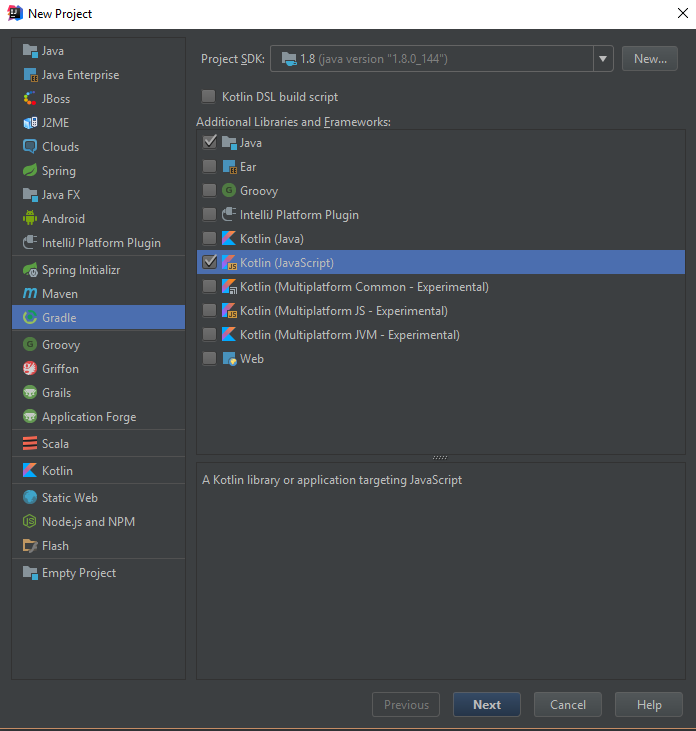
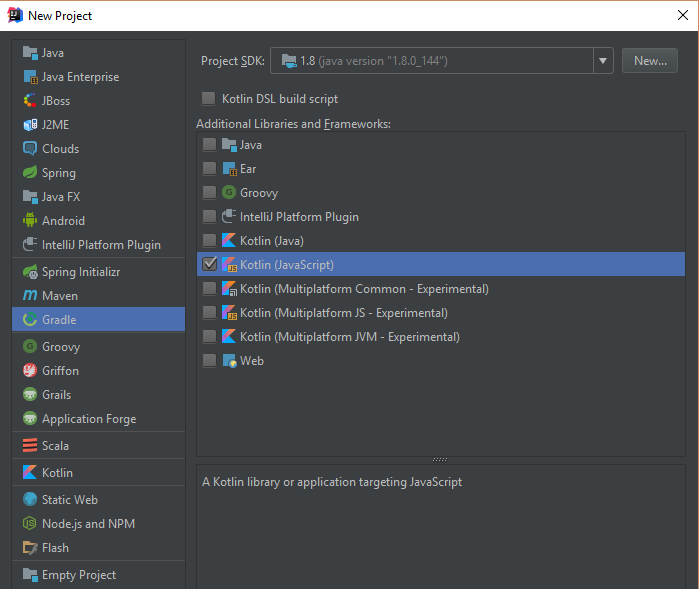
Passi avanti: sezione 1 e 2 terminate. Alla 3 mancano esempi e kotlinhtmlx

Changed region(s): [[0.0, 0.0, 1.0, 1.0], [0.2716, 0.7946, 0.6638, 0.8251]]

diff --git a/presentazione.tex b/presentazione.tex
@@ -169,8 +169,78 @@
       \end{center}
     \end{frame}
 
+    \section{La Sintassi}
     \begin{frame}
+      \frametitle{I costrutti principali di Kotlin (1)}
+      \framesubtitle{IMMUTABILITA': \textbf{\texttt{val}} vs. \textbf{\texttt{var}}}
+      \begin{columns}
+        \begin{column}{0.47\textwidth}
+          \begin{block}{Supporto built-in}
+            \begin{itemize}
+              \item \textbf{\texttt{var}}: mutabile.
+              \item \textbf{\texttt{val}}: immutabile (consigliato).
+            \end{itemize}
+          \end{block}
+          \begin{block}{Anche a livello di Classi}
+            Concetto di "\textbf{class properties}":
+            \begin{itemize}
+              \item proprietà \textbf{\texttt{var}}: \alert{genera} automaticamente getter e setter
+              \item proprietà \textbf{\texttt{val}}: \alert{genera} automaticamente getter
+            \end{itemize}
+          \end{block}
+        \end{column}
+        \begin{column}{0.5\textwidth}
+            \includegraphics[scale=0.75]{Immutability}
+        \end{column}
+      \end{columns}
+    \end{frame}
 
+    \begin{frame}
+      \frametitle{I costrutti principali di Kotlin (2)}
+      \framesubtitle{NULL SAFETY}
+      \begin{columns}
+        \begin{column}{0.47\textwidth}
+          \begin{block}{Motivazione}
+             Evitare le \textbf{\texttt{NullPointerException}}.
+          \end{block}
+          Kotlin differenzia tipi nullable e non-nullable aggiungendo il simbolo "\textbf{?}":
+          \begin{itemize}
+            \item \texttt{String} - (Default) Non può essere null: non-nullable.
+            \item \texttt{String?} - Può essere null: nullable.
+          \end{itemize}
+          \begin{block}{Gestione}
+            I tipi nullable vengono gestiti usando tipicamente l'operatore di \textbf{safe call} \alert{?.}
+          \end{block}
+        \end{column}
+        \begin{column}{0.5\textwidth}
+            \includegraphics[scale=0.4]{NullSafety}
+        \end{column}
+      \end{columns}
+    \end{frame}
+
+    \begin{frame}
+      \frametitle{I costrutti principali di Kotlin (3)}
+      \framesubtitle{DATA-CLASSES}
+      \begin{center}
+        \includegraphics[scale=0.5]{DataClass}
+      \end{center}
+      Una Data class crea \alert{implicitamente}:
+      \begin{itemize}
+        \item Metodi getters/setters.
+        \item Metodi equals(), hashCode(), toString(), copy().
+      \end{itemize}
+    \end{frame}
+
+    \begin{frame}
+      \frametitle{I costrutti principali di Kotlin (4)}
+      \framesubtitle{EXTENSION FUNCTIONS}
+      \begin{center}
+        \includegraphics[scale=0.4]{ExtFun}
+      \end{center}
+      \begin{itemize}
+        \item Permette di aggiungere nuove funzionalità ad una classe (anche di Standard Library) senza l'utilizzo di ereditarietà o decoratori.
+        \item Kotlin permette l'uso di \textbf{extension functions} ed \textbf{extension properties}.
+      \end{itemize}
     \end{frame}
 
     \section{Kotlin / JavaScript}
@@ -180,13 +250,23 @@
         \begin{itemize}[<+->]
           \item Scrivere una Web Application interamente in Kotlin.
           \bigskip
-          \item Vantaggi di un linguaggio \textbf{staticamente tipato}.
+          \item Vantaggi di un linguaggio \textbf{staticamente tipizzato}.
           \bigskip
           \item Con la possibilità di definire dei $Dynamic$ $Types$.
           \bigskip
+          \item Riduzione della verbosità per molti costrutti.
+          \bigskip
           \item Librerie in continua evoluzione.
+          \bigskip
         \end{itemize}
       \end{block}
+    \end{frame}
+
+    \begin{frame}
+      \frametitle{Kotlin vs. JavaScript: tipaggio statico}
+      \begin{center}
+        \includegraphics[scale=0.35]{StatVSDinPNG}
+      \end{center}
     \end{frame}
 
     \begin{frame}
@@ -211,4 +291,27 @@
         utilizzato per le Reflection ed altre funzionalità.
       \end{block}
     \end{frame}
+
+    \begin{frame}
+      \frametitle{Impostare Gradle (1)}
+      \begin{center}
+      \includegraphics[scale=0.5]{NewProject}
+      \end{center}
+    \end{frame}
+
+    \begin{frame}
+      \frametitle{Impostare Gradle (2)}
+      \begin{block}{Configurare le compiler options}
+        \includegraphics[scale=0.67]{Kt2JsGradle}
+      \end{block}
+      \begin{block}{Cosa stiamo dicendo?}
+        \begin{itemize}
+          \item \textbf{\texttt{outputFile}}: La locazione dei file .js compilati.
+          \item \textbf{\texttt{moduleKind}}: Il tipo di module loader di JavaScript.
+          \item \textbf{\texttt{sourceMap}}: Flag molto utile per il debugging: il codice JavaScript generato è spesso difficile da leggere e capire.
+        \end{itemize}
+      \end{block}
+    \end{frame}
+
+
 \end{document}
